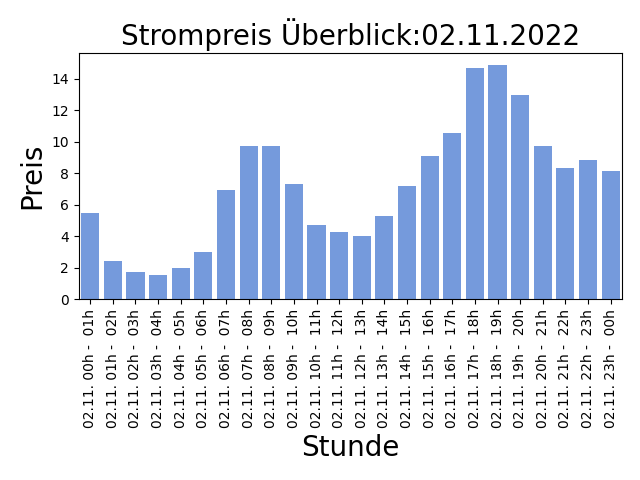
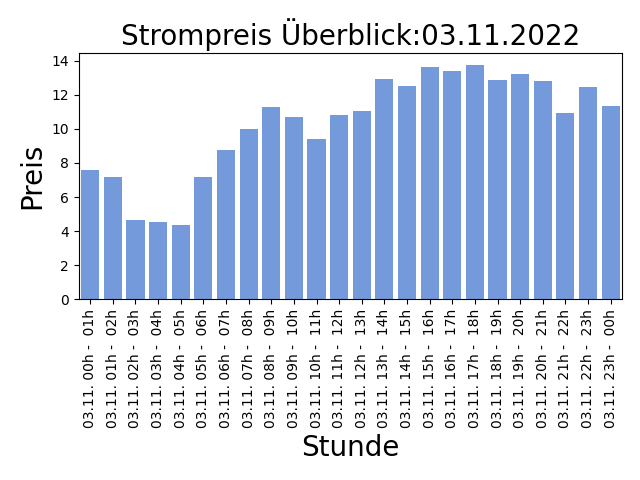
AUTOMATIC UPDATE PRICE LIST: 2022-11-02-14:30:09

diff --git a/README.md b/README.md
@@ -1,5 +1,5 @@
 
-## Strompreise für den 02.11.2022
+## Strompreise für den 03.11.2022
 
 Niedrige Preise deuten auf viel Sonnen und Windenergieerzeugung hin, ein hoher Anteil an erneuerbaren Energien bedeuted weniger CO2 Verbrauch!
 
@@ -7,31 +7,31 @@ Niedrige Preise deuten auf viel Sonnen und Windenergieerzeugung hin, ein hoher A
 
 | Stunde | Preis in Cent/kWh |
 |---|---|
-| 02.11. 00h -  01h | 5.492 | 
-| 02.11. 01h -  02h | 2.434 | 
-| 02.11. 02h -  03h | 1.738 | 
-| **02.11. 03h -  04h** | **1.528** | 
-| 02.11. 04h -  05h | 2.02 | 
-| 02.11. 05h -  06h | 3.0010000000000003 | 
-| 02.11. 06h -  07h | 6.970999999999999 | 
-| 02.11. 07h -  08h | 9.719 | 
-| 02.11. 08h -  09h | 9.712 | 
-| 02.11. 09h -  10h | 7.303 | 
-| 02.11. 10h -  11h | 4.708 | 
-| 02.11. 11h -  12h | 4.258 | 
-| 02.11. 12h -  13h | 3.9939999999999998 | 
-| 02.11. 13h -  14h | 5.266 | 
-| 02.11. 14h -  15h | 7.2170000000000005 | 
-| 02.11. 15h -  16h | 9.129999999999999 | 
-| 02.11. 16h -  17h | 10.536 | 
-| 02.11. 17h -  18h | 14.688999999999998 | 
-| 02.11. 18h -  19h | 14.893 | 
-| 02.11. 19h -  20h | 13.0 | 
-| 02.11. 20h -  21h | 9.719 | 
-| 02.11. 21h -  22h | 8.372 | 
-| 02.11. 22h -  23h | 8.866 | 
-| 02.11. 23h -  00h | 8.166 | 
+| 03.11. 00h -  01h | 7.573 | 
+| 03.11. 01h -  02h | 7.179 | 
+| 03.11. 02h -  03h | 4.642 | 
+| 03.11. 03h -  04h | 4.509 | 
+| **03.11. 04h -  05h** | **4.383** | 
+| 03.11. 05h -  06h | 7.1579999999999995 | 
+| 03.11. 06h -  07h | 8.767 | 
+| 03.11. 07h -  08h | 9.977 | 
+| 03.11. 08h -  09h | 11.299 | 
+| 03.11. 09h -  10h | 10.67 | 
+| 03.11. 10h -  11h | 9.415000000000001 | 
+| 03.11. 11h -  12h | 10.825 | 
+| 03.11. 12h -  13h | 11.043000000000001 | 
+| 03.11. 13h -  14h | 12.894 | 
+| 03.11. 14h -  15h | 12.526 | 
+| 03.11. 15h -  16h | 13.63 | 
+| 03.11. 16h -  17h | 13.362 | 
+| 03.11. 17h -  18h | 13.746 | 
+| 03.11. 18h -  19h | 12.871 | 
+| 03.11. 19h -  20h | 13.221 | 
+| 03.11. 20h -  21h | 12.828 | 
+| 03.11. 21h -  22h | 10.908 | 
+| 03.11. 22h -  23h | 12.439 | 
+| 03.11. 23h -  00h | 11.35 | 
 
 Preise der EPEX Spot ® Strombörse (neue Preise werden täglich um 14:00 veröffentlicht für den kompletten nächsten Tag).
 
-letzte Aktualisierung:01.11.2022 14:30
+letzte Aktualisierung:02.11.2022 14:30
